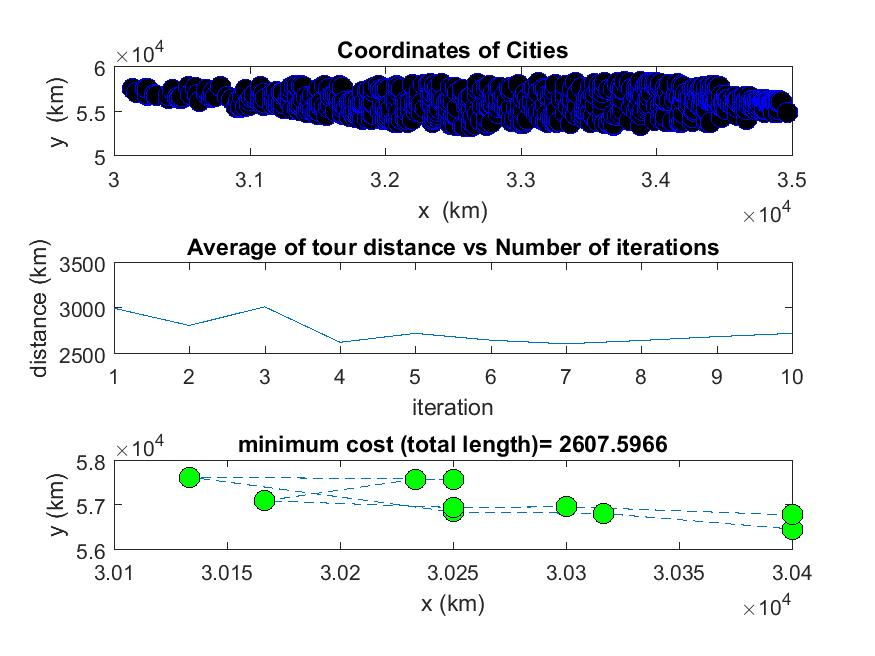
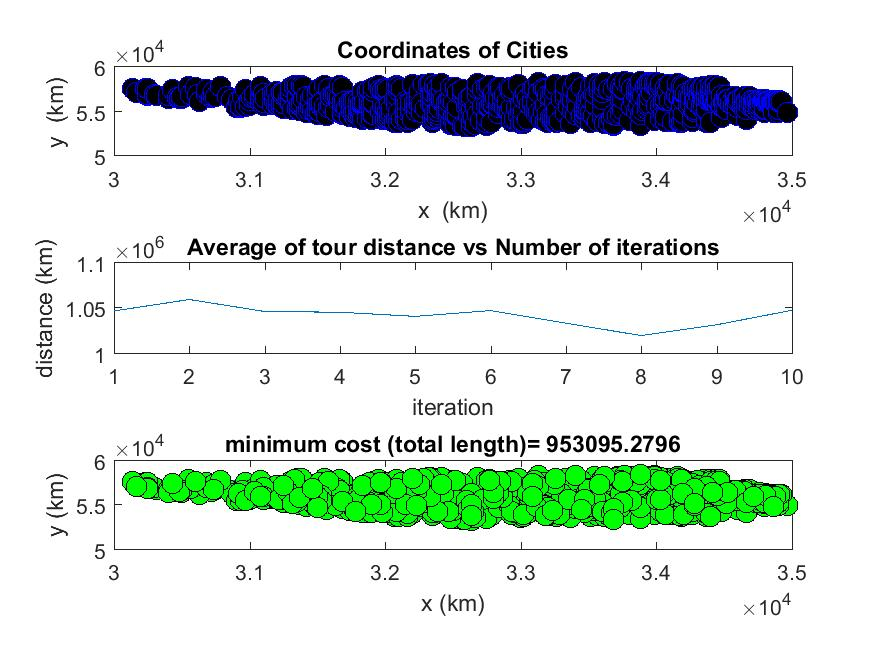
Added dataset tex and adjusted ant colony results

diff --git a/tex/dataset.tex b/tex/dataset.tex
@@ -1,0 +1,33 @@
+\documentclass[twocolumn]{article}
+
+\usepackage{graphicx}
+
+\begin{document}	
+	\twocolumn[
+	\begin{@twocolumnfalse}
+		\author{Michael Sedrak \\ m.sedrak@live.com}
+		\title{Solving TSP With Genetic Algorithms}
+		\maketitle
+		\begin{abstract}
+			Lorem ipsum dolor sit amet, consectetur adipiscing elit. Suspendisse condimentum, urna nec luctus tincidunt, nisi augue vehicula nulla, sit amet sollicitudin nisi nibh eget diam. Vivamus maximus tortor dolor, non porttitor urna vestibulum eu. Nullam maximus in massa eu lacinia. Curabitur ac risus ac elit euismod placerat quis eu odio. Sed ante ex, congue sit amet enim et, aliquam egestas turpis. Cras purus ex, viverra sit amet augue id, tempus ultricies risus. Aenean eget vestibulum orci. Ut enim nisi, tempor id urna et, dignissim ornare lectus. Nunc lobortis risus neque, a fermentum ante consequat ac. Fusce mollis pretium pellentesque. Vestibulum fermentum ornare elementum. Nam rutrum sem ut est mollis consequat. Morbi at faucibus mi. In ultricies justo non lorem varius, non tristique ante suscipit. Curabitur eget diam tincidunt, venenatis enim sagittis, malesuada magna. Nullam in urna a odio finibus tristique.
+		\end{abstract}
+	\end{@twocolumnfalse}
+	]
+	
+	%% Document body starts from here
+	
+	\section{Dataset}
+	Datasets for TSP problem contain a wide variety of formats. Cities across a country, VLSI nodes or travelling across the Mona Lisa drawing. But they are all similar in the aspect of the data structure. The structure is a 2-D coordinate point system with euclidean distances as the distance between nodes.
+	For our work we selected the Uruguay dataset from the national dataset collection. Uruguay dataset is characterised by 
+	\begin{itemize}
+	\item 734 unique points (no duplicates)
+	\item Optimal tour of length 79114
+	\end{itemize}
+	\begin{figure}[h!]
+	\centering
+		\includegraphics[scale=0.3]{uypoints.jpg}
+	\caption{XY coordinate representation of Uruguay dataset}
+	\label{fig:uruguay}
+	\end{figure}
+	A graphical representation of the coordinates of the dataset is shown in figure \ref{fig:uruguay}
+\end{document}
